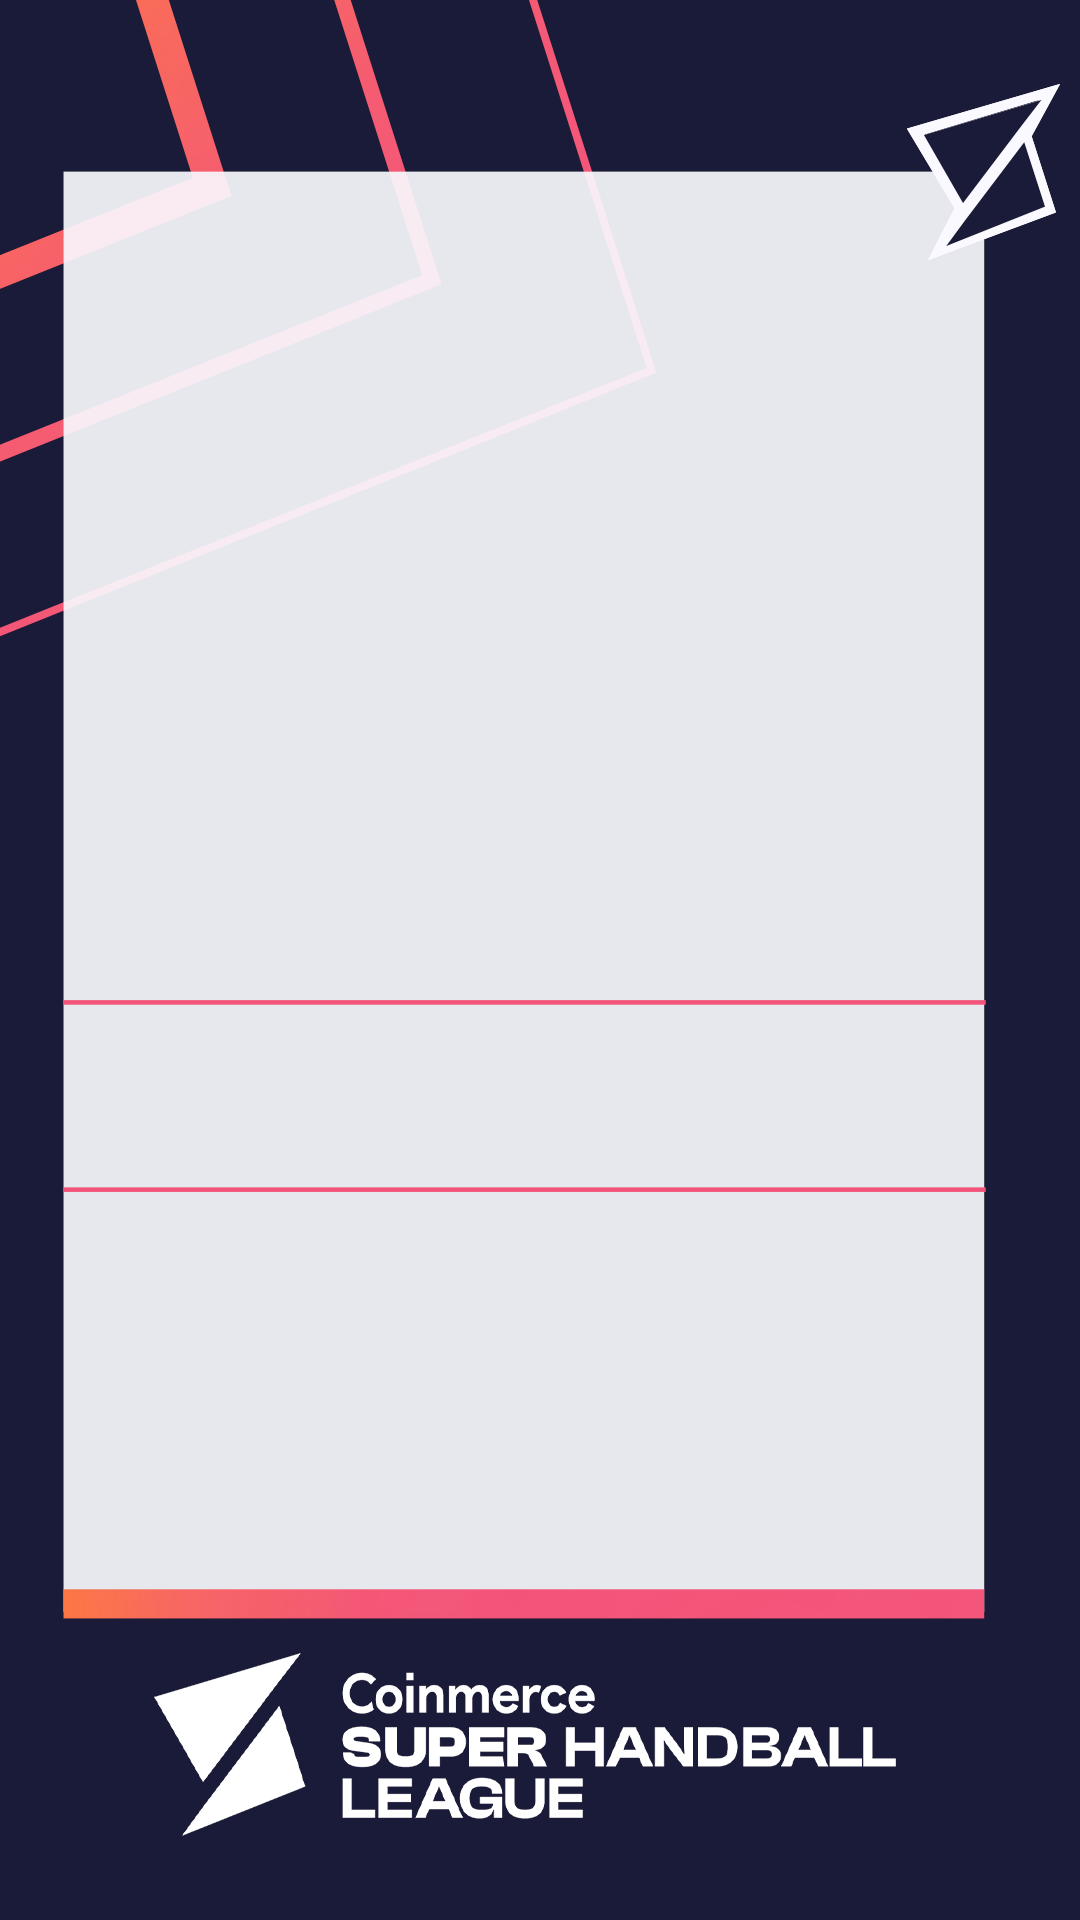
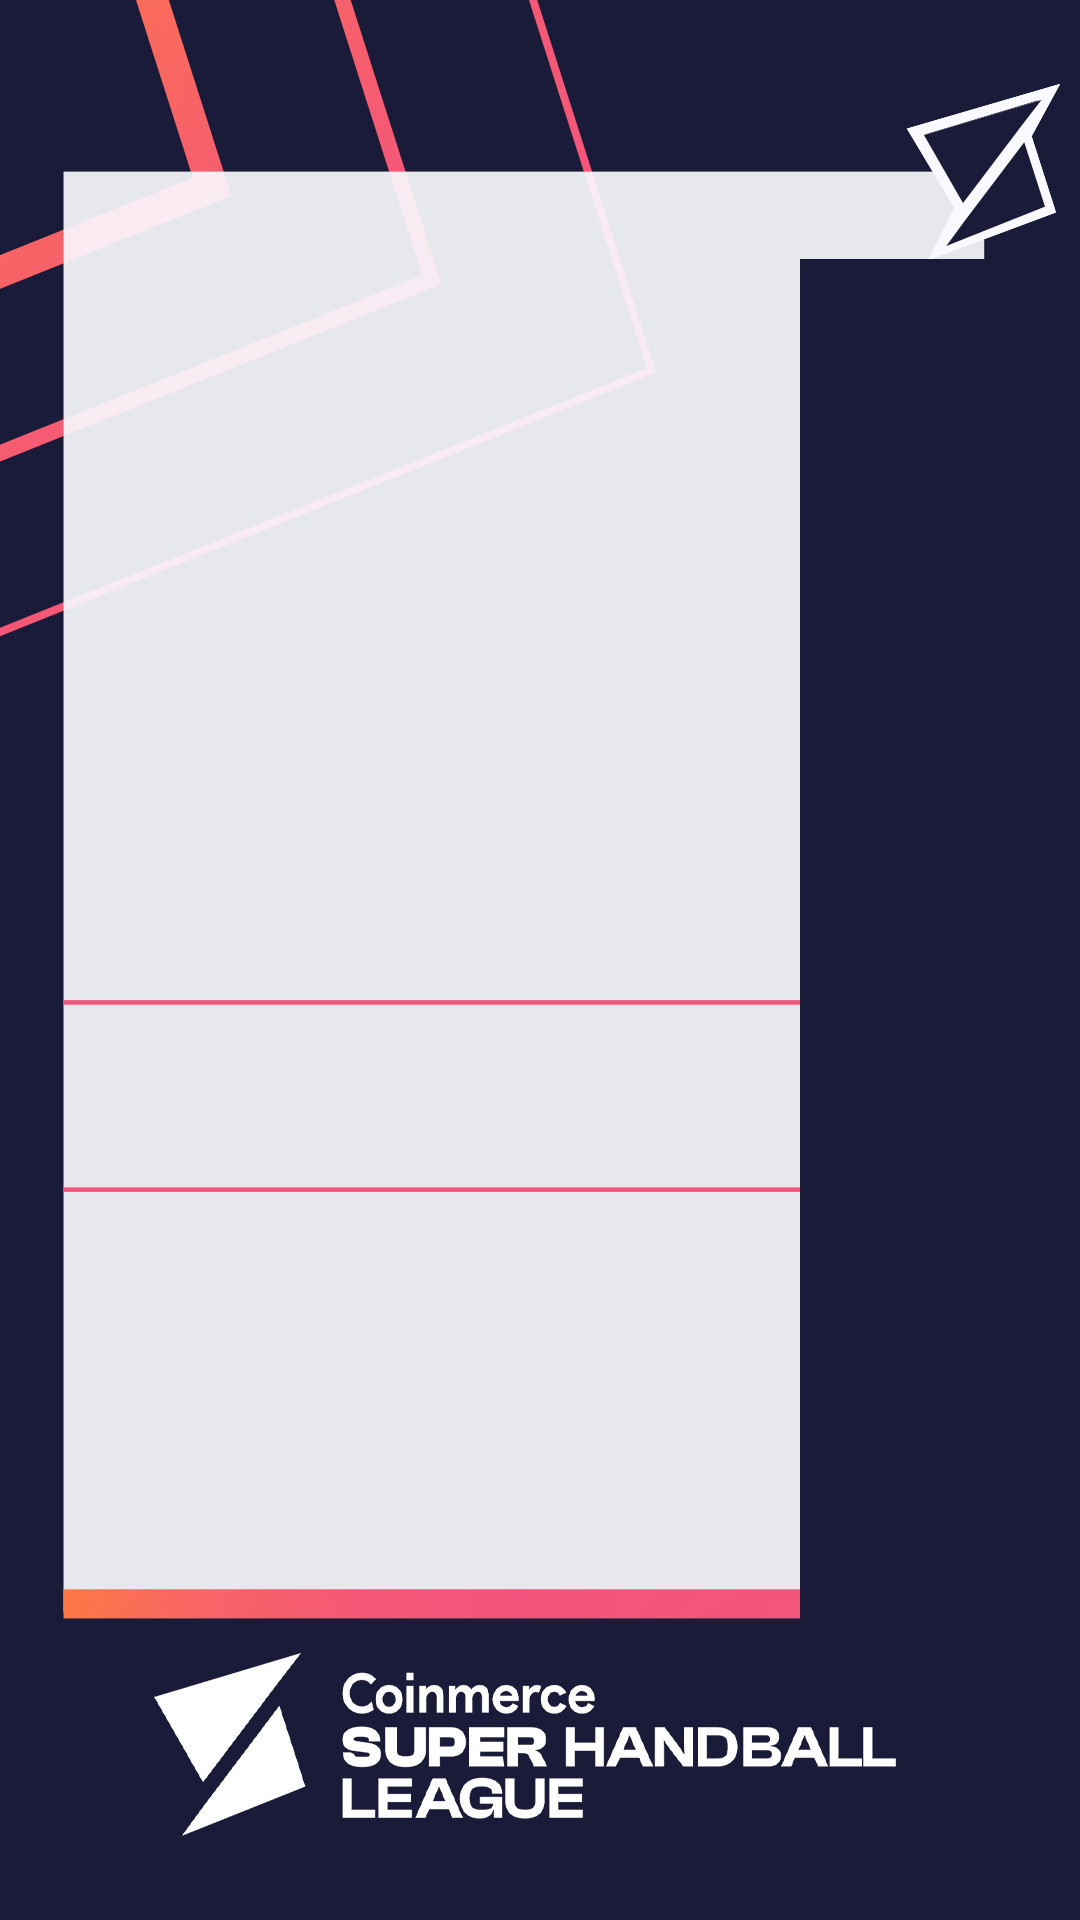
Remove GD column from Ranking, narrow the card, shrink badges further
Per feedback: GD wasn't wanted at all (also not published on the SHL
site, so it couldn't be auto-filled anyway) — dropped the column, its
header, and its input. Narrowed the background card + divider lines to
match (painted over the freed-up space rather than re-exporting from
the PSD, keeping the corner mark and footer untouched), and shrank the
crest badges again (74px -> 58px) since they still read oversized.

Changed region(s): [[0.7333, 0.125, 0.9167, 0.8438]]

diff --git a/story-generator/script.js b/story-generator/script.js
@@ -137,13 +137,13 @@
   // it's plain manual entry rather than CSV-driven like the other modes.
   const RANK_ROW_TOP = 245, RANK_ROW_BOTTOM = 1601, RANK_ROWS = 14;
   const RANK_ROW_H = (RANK_ROW_BOTTOM - RANK_ROW_TOP) / RANK_ROWS;
-  const RANK_BADGE_CX = 230, RANK_BADGE_SIZE = 74, RANK_BADGE_PAD = 10;
-  const RANK_NUM_X = 104, RANK_CODE_X = 313, RANK_P_X = 504, RANK_PTS_X = 648, RANK_GD_X = 782;
+  const RANK_BADGE_CX = 230, RANK_BADGE_SIZE = 58, RANK_BADGE_PAD = 8;
+  const RANK_NUM_X = 104, RANK_CODE_X = 313, RANK_P_X = 504, RANK_PTS_X = 648;
   const RANK_HEADER_Y = 236, RANK_HEADER_FONT = 24;
   const RANK_DATA_FONT = 36;
   const RANK_TEXT_COLOR = '#14142b';
 
-  const rankState = Array.from({ length: RANK_ROWS }, () => ({ code: '', p: '', pts: '', gd: '' }));
+  const rankState = Array.from({ length: RANK_ROWS }, () => ({ code: '', p: '', pts: '' }));
 
   let compKey = 'men';
   const comp = () => COMPETITIONS[compKey];
@@ -876,7 +876,6 @@
       const select = node.querySelector('.rank-team-select');
       const pInput = node.querySelector('.rank-p');
       const ptsInput = node.querySelector('.rank-pts');
-      const gdInput = node.querySelector('.rank-gd');
 
       numEl.textContent = (i + 1) + '.';
 
@@ -895,12 +894,10 @@
 
       pInput.value = row.p;
       ptsInput.value = row.pts;
-      gdInput.value = row.gd;
 
       select.addEventListener('change', () => { row.code = select.value; render(); });
       pInput.addEventListener('input', () => { row.p = pInput.value; render(); });
       ptsInput.addEventListener('input', () => { row.pts = ptsInput.value; render(); });
-      gdInput.addEventListener('input', () => { row.gd = gdInput.value; render(); });
 
       matchesList.appendChild(node);
     });
@@ -1106,7 +1103,6 @@
     ctx.textAlign = 'left';
     ctx.fillText('P', RANK_P_X, RANK_HEADER_Y);
     ctx.fillText('PTS', RANK_PTS_X, RANK_HEADER_Y);
-    ctx.fillText('GD', RANK_GD_X, RANK_HEADER_Y);
 
     rankState.forEach((row, i) => {
       if (!row.code) return;
@@ -1120,7 +1116,6 @@
       ctx.fillText(String(i + 1) + '.', RANK_NUM_X, cy);
       ctx.fillText(row.code, RANK_CODE_X, cy);
       ctx.fillText(row.p, RANK_P_X, cy);
-      ctx.fillText(row.gd, RANK_GD_X, cy);
 
       // PTS is the one column set in Bold — everything else in this
       // template is Medium.

diff --git a/story-generator/index.html b/story-generator/index.html
@@ -147,7 +147,6 @@
     <select class="team-select rank-team-select" autocomplete="off"></select>
     <input type="text" class="rank-input rank-p" placeholder="P" inputmode="numeric" maxlength="2" autocomplete="off">
     <input type="text" class="rank-input rank-pts" placeholder="PTS" inputmode="numeric" maxlength="3" autocomplete="off">
-    <input type="text" class="rank-input rank-gd" placeholder="GD" maxlength="4" autocomplete="off">
   </div>
 </template>
 
